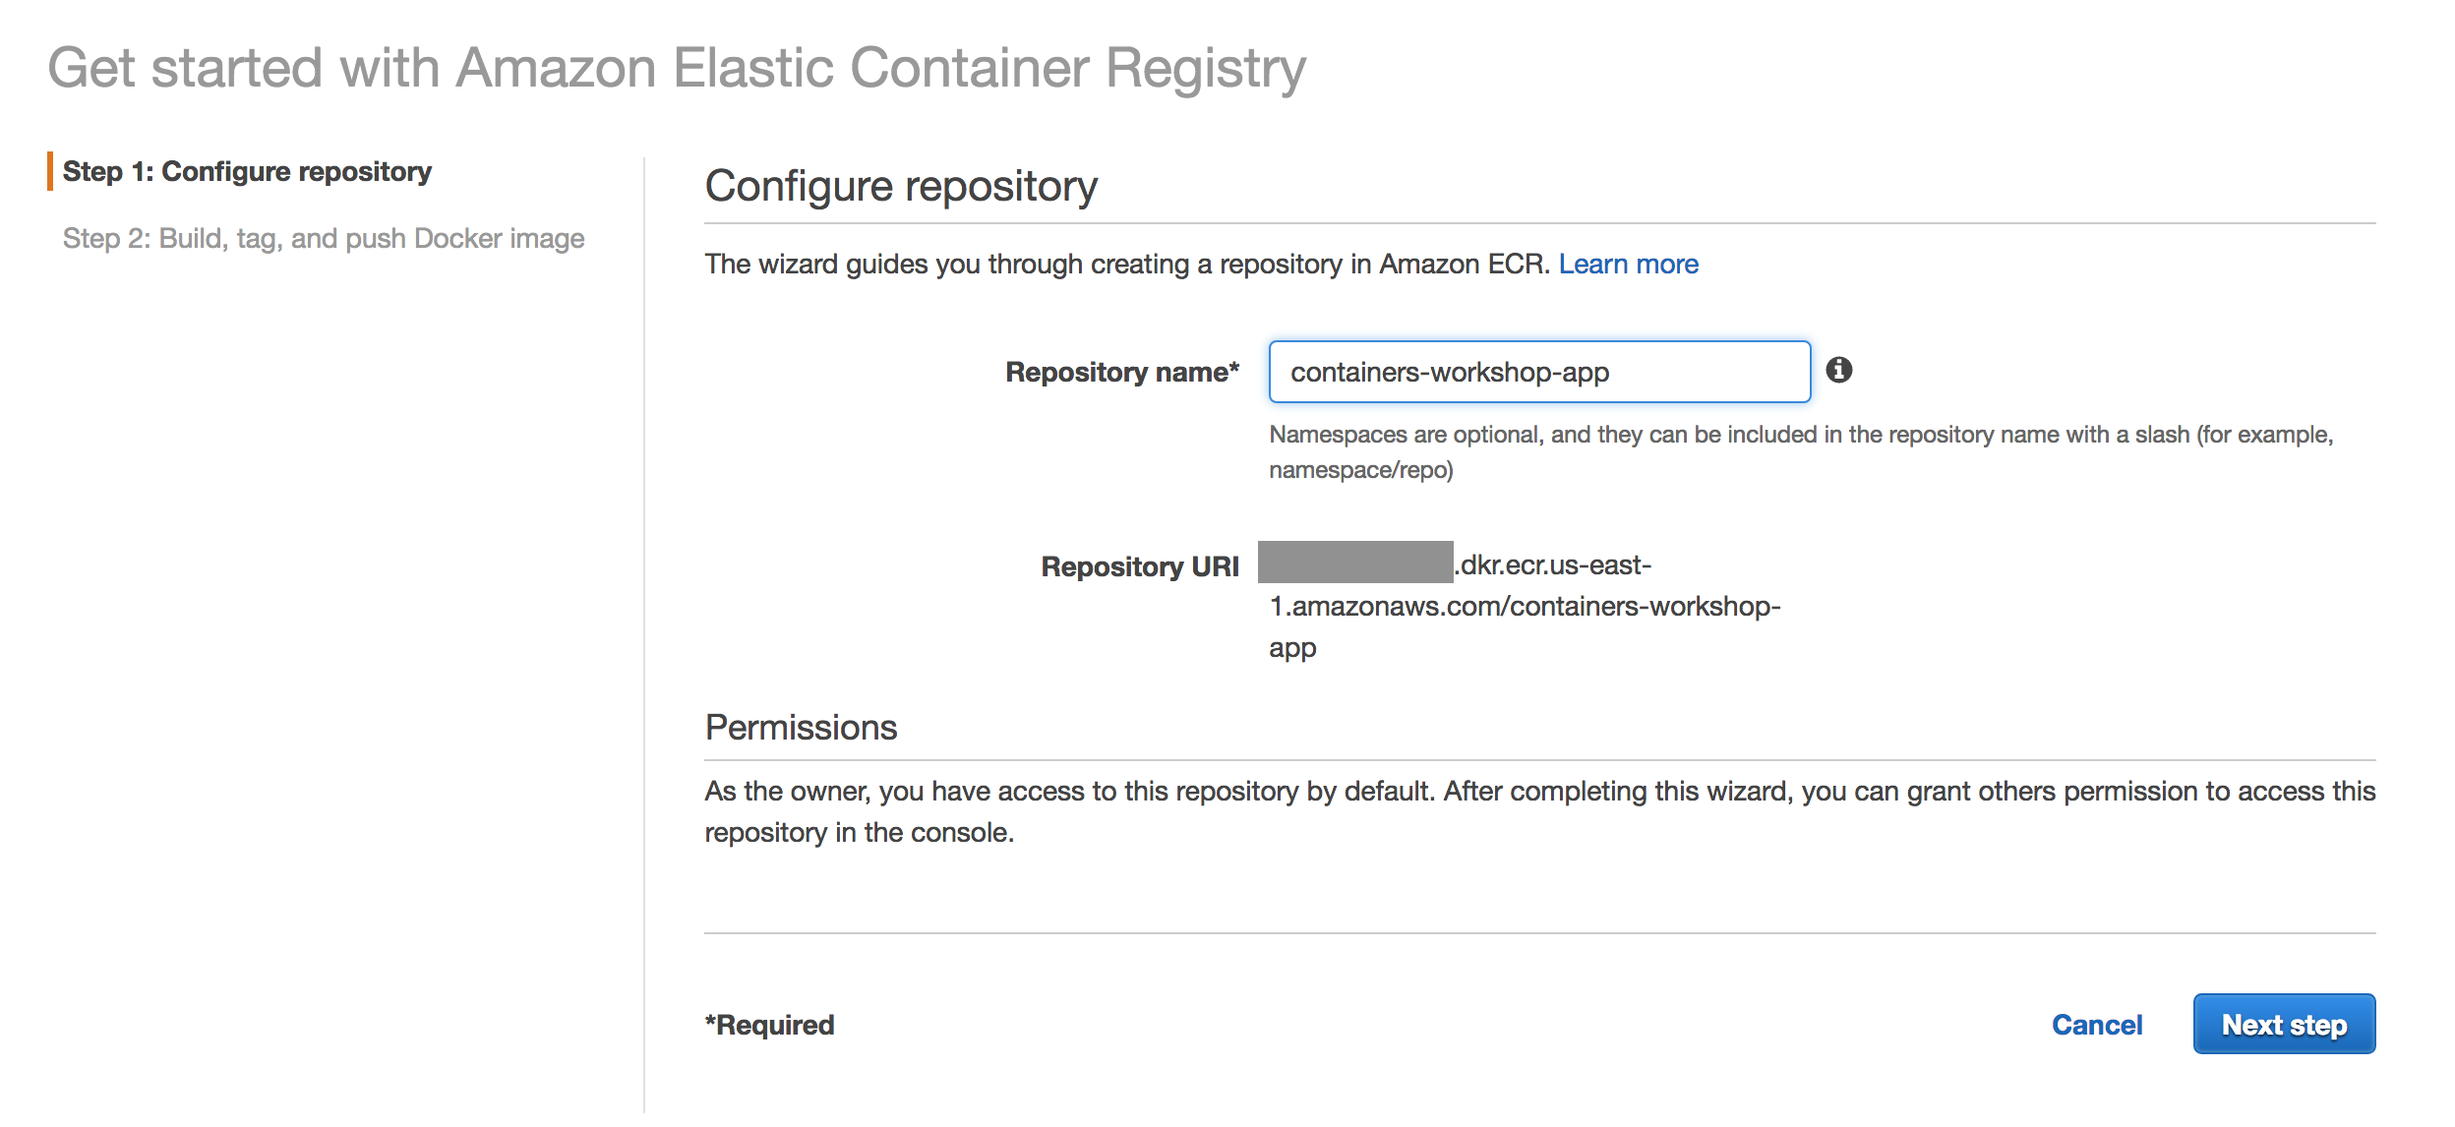
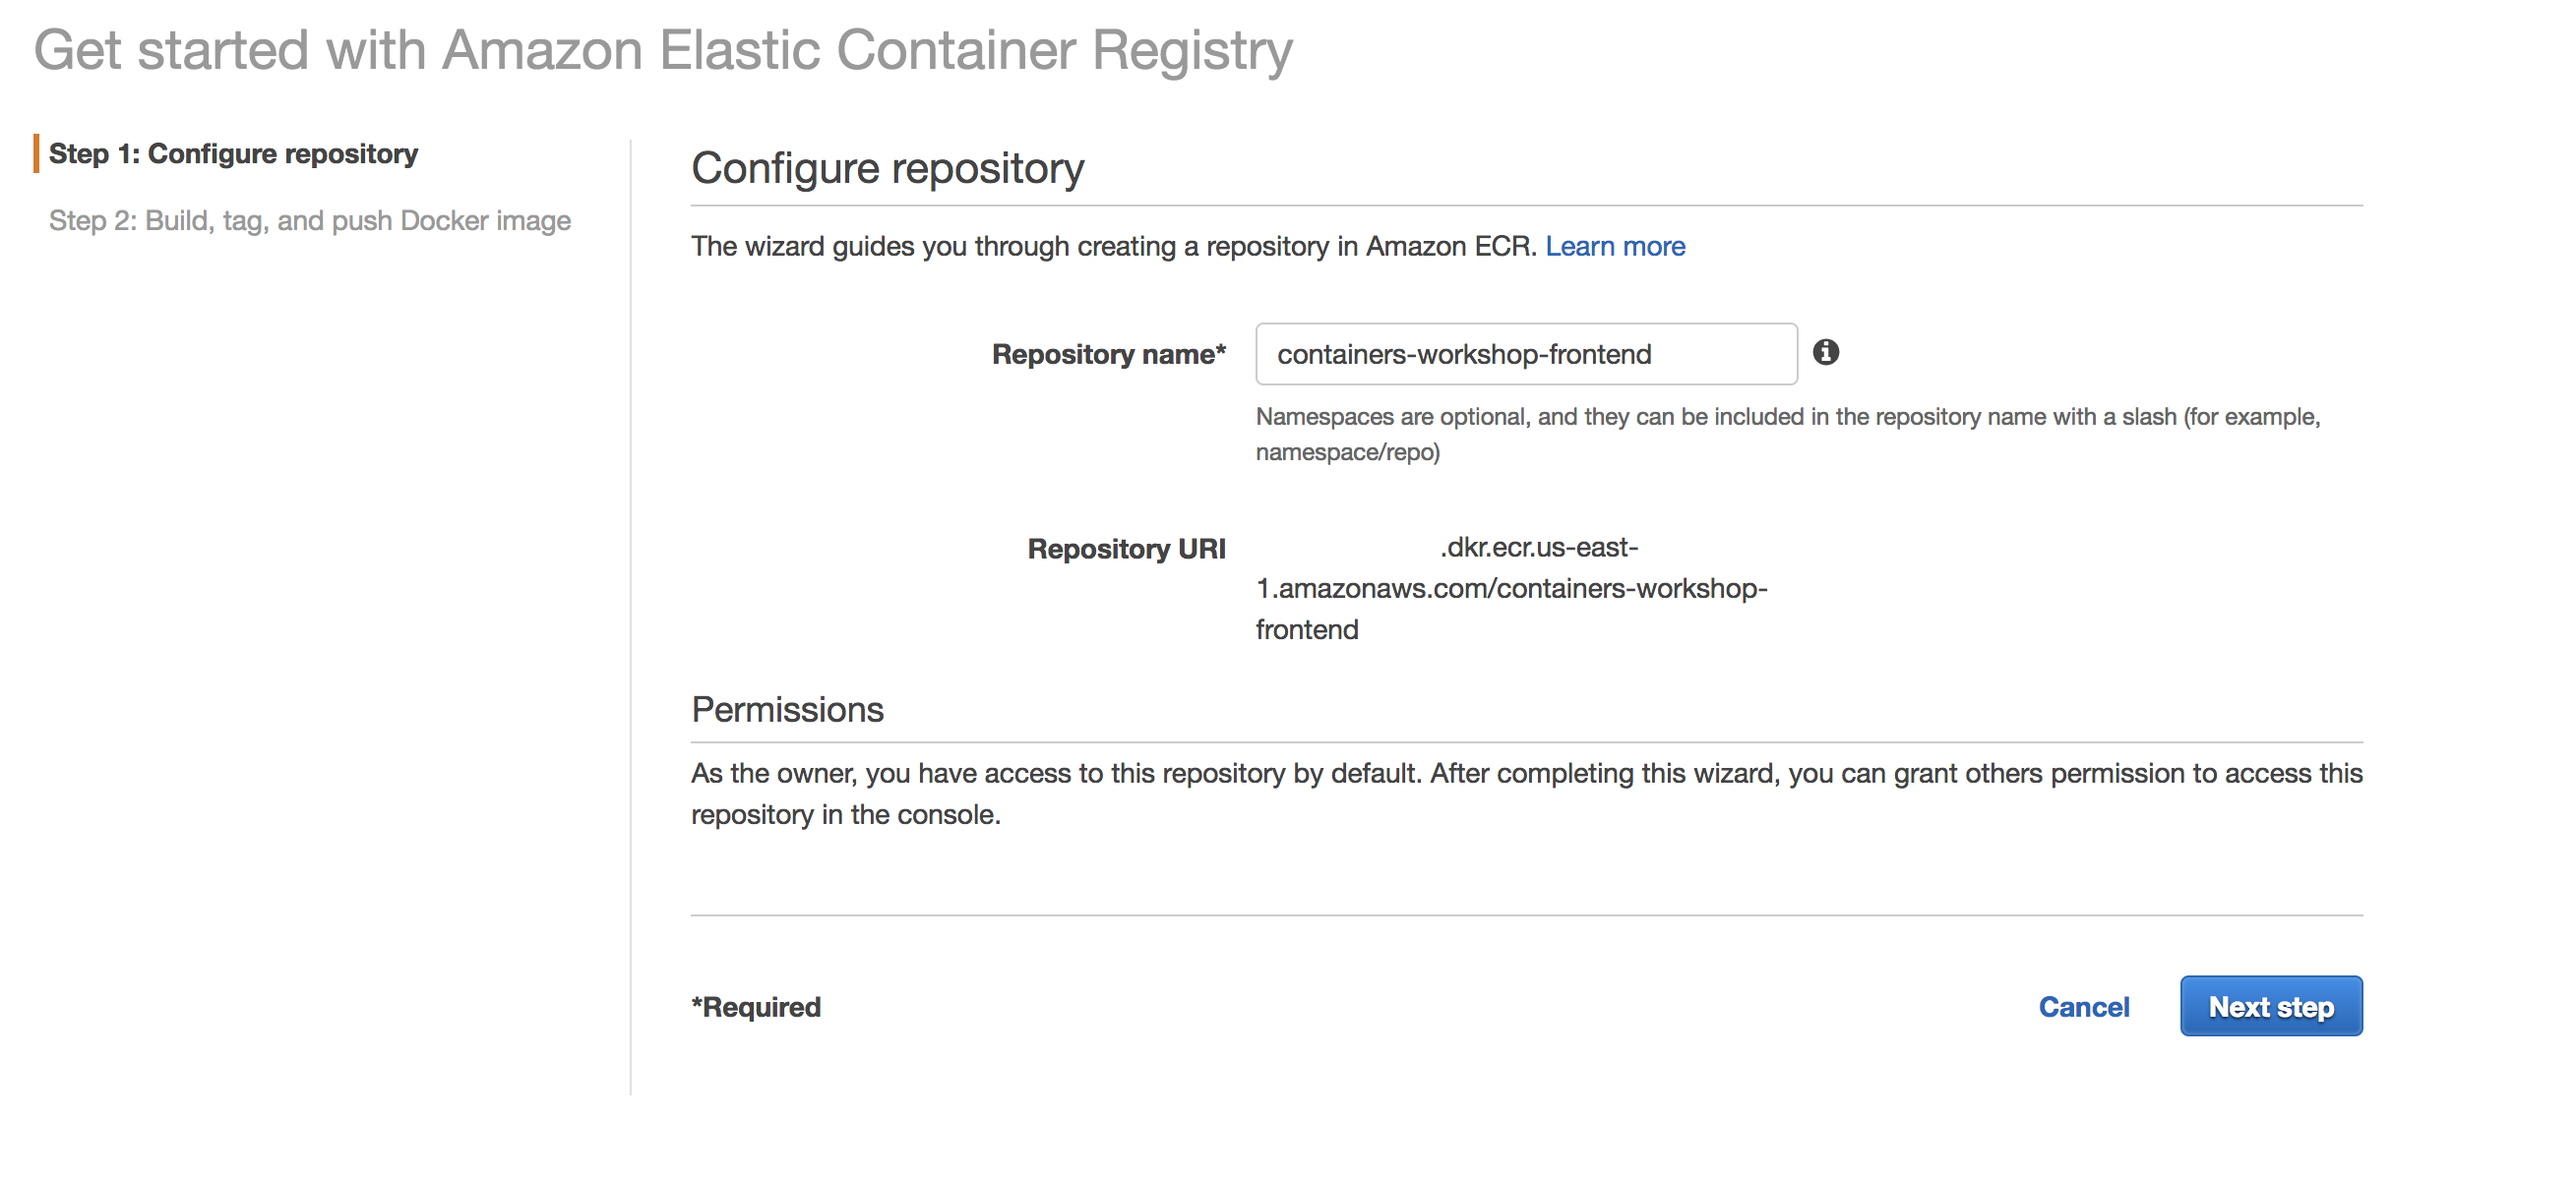
Changing content to new web application

diff --git a/02-CreatingDockerImage/README.md b/02-CreatingDockerImage/README.md
@@ -57,45 +57,49 @@ If you haven't executed the `git clone` command present in the [Setup Environmen
 
 Now we are going to build and test our containers locally.  If you've never worked with Docker before, there are a few basic commands that we'll use in this workshop, but you can find a more thorough list in the [Docker "Getting Started" documentation](https://docs.docker.com/engine/getstarted/).
 
-In this step, we are going to build a *Docker image* with a simple web application. The application that we will be using is available on the directory `00-Application` inside the project folder. In this case, lets's navigate to the `00-Application` directory:
+In this step, we are going to build a *Docker image* with the frontend application. The application that we will be using is available on the directory `00-Application/frontend` inside the project folder. In this case, lets's navigate to the `00-Application/frontend` directory:
 
-    $ cd containers-on-aws-workshop/00-Application/
+    $ cd containers-on-aws-workshop/00-Application/frontend
 
-Take a look on the contents of this directory. You will see that there is a directory called `app/` and also a file named `Dockerfile`. We will be using this `Dockerfile` to package our web application. In order to do that, run the following command inside the `00-Application` directory:
+Take a look on the contents of this directory. You will see that there is a directory called `code/` and also a file named `Dockerfile`. We will be using this `Dockerfile` to package our web application. In order to do that, run the following command inside the `frontend` directory:
 
-    $ docker build -t containers-workshop-app .
+    $ docker build -t containers-workshop-frontend .
 
 This should output steps that look something like this:
 
-    Sending build context to Docker daemon  9.295MB
-    Step 1/9 : FROM node:alpine
-     ---> 5ce79d7a9aad
-    Step 2/9 : COPY app/ /app
-     ---> 5db182714408
-    Step 3/9 : WORKDIR /app
-    Removing intermediate container 0fed50590e13
-     ---> 8b89b65c5c67
-    Step 4/9 : RUN npm install --global gulp && npm install gulp
-     ---> Running in f86ae7a1e8bb
+    Sending build context to Docker daemon  6.875MB
+    Step 1/12 : FROM node:11.1.0 as build-deps
+    ---> e893e87c6b5c
+    Step 2/12 : RUN mkdir /usr/src/app
+    ---> Running in 23713e0f15cc
+    Removing intermediate container 23713e0f15cc
+    ---> 920862581cb3
+    Step 3/12 : WORKDIR /usr/src/app
+    ---> Running in 25d3a7a96c09
+    Removing intermediate container 25d3a7a96c09
+    ---> 70b34d8d8b35
+    Step 4/12 : ENV PATH /usr/src/app/node_modules/.bin:$PATH
+    ---> Running in 6be3942d1d4a
 
 If the container builds successfully, the output should end with something like this:
 
-    Successfully built 0c50204fc662
-    Successfully tagged containers-workshop-app:latest
+  Successfully built 1612d3ffdb32
+  Successfully tagged containers-workshop-frontend:latest
 
-To run your container:
+>NOTE: For this build process, we are using the multi-stage build approach. This consists in using one container to generate you application and then copy the generated app to another image, in order to make it smaller. You can get more information about multi-stage builds in [this link](https://docs.docker.com/develop/develop-images/multistage-build/).
 
-     $  docker run -d -p 8080:80 containers-workshop-app
+Now that you created your docker image, you can use the following command to run the *containers-workshop-frontend* container:
 
-To check if your container is running:
+     $  docker run -d -p 8080:80 containers-workshop-frontend
+
+To check if your container is running, use the following command:
 
      $ docker ps
 
 This should return a list of all the currently running containers.  In this example,  it should just return a single container, the one that we just started:
 
-    CONTAINER ID        IMAGE                     COMMAND             CREATED                  STATUS              PORTS                          NAMES
-    1255ca3087f5        containers-workshop-app   "node server.js"    Less than a second ago   Up 1 second         0.0.0.0:80->8080/tcp, 8080/tcp   nifty_snyder
-
+    CONTAINER ID        IMAGE                          COMMAND                  CREATED             STATUS              PORTS                  NAMES
+    1c0511ee397d        containers-workshop-frontend   "nginx -g 'daemon of…"   13 seconds ago      Up 12 seconds       0.0.0.0:8080->80/tcp   musing_leakey
 
 
 To test the application, you can use the Cloud9 `Preview Running Application` feature. In Cloud9, click in `Preview` > `Preview Running Application`
@@ -201,7 +205,7 @@ Before we can build and push our images, we need somewhere to push them to.  In 
 
 To create a repository, navigate to the [ECS console](https://console.aws.amazon.com/ecs/home?region=us-east-1), and select **Repositories**.  From there, click in the **Get Started**.
 
-Name your first repository **containers-workshop-app**:
+Name your first repository **containers-workshop-frontend**:
 
 ![create ecr repository](/02-CreatingDockerImage/images/creating_repository.png)
 
@@ -229,14 +233,14 @@ To login to ECR, copy this output and execute it as a linux command. The output 
     Login Succeeded
 
 
->NOTE: If you are running it in a linux terminal, you can just run the command like this `aws ecr get-login --region us-east-1 --no-include-email` which will tell your shell to execute the output of the first command.  
+>NOTE: If you are running it in a linux terminal, you can just run the command like this `$(aws ecr get-login --no-include-email --region us-east-1)` which will tell your shell to execute the output of the first command.  
 
 If you are unable to login to ECR, check your IAM user group permissions.
 
 Now, let's tag our image locally and them push our image to the ECR repository. Use the following commands:
 
-    $ docker tag containers-workshop-app:latest XXXXXXXXX.dkr.ecr.us-east-1.amazonaws.com/containers-workshop-app:latest
-    $ docker push XXXXXXXXX.dkr.ecr.us-east-1.amazonaws.com/containers-workshop-app:latest
+    $ docker tag containers-workshop-frontend:latest XXXXXXXXX.dkr.ecr.us-east-1.amazonaws.com/containers-workshop-frontend:latest
+    $ docker push XXXXXXXXX.dkr.ecr.us-east-1.amazonaws.com/containers-workshop-frontend:latest
 
 >NOTE: Remember to replace the `XXXXXXXXX` with your account ID. This information will be presented to you in the ECR screen with the Docker push commands.
 
@@ -245,7 +249,7 @@ Now, let's tag our image locally and them push our image to the ECR repository. 
 
 This step will take some minutes. When the command finishes, you should see something like this:
 
-    The push refers to a repository [XXXXXXXXX.dkr.ecr.us-east-1.amazonaws.com/containers-workshop-app]
+    The push refers to a repository [XXXXXXXXX.dkr.ecr.us-east-1.amazonaws.com/containers-workshop-frontend]
     9ef5219507db: Pushed
     b3d18e8f520f: Pushed
     a83b4d2ff3a0: Pushed
@@ -254,17 +258,17 @@ This step will take some minutes. When the command finishes, you should see some
     b3968bc26fbd: Pushed
     aa4e47c45116: Pushed
     788ce2310e2f: Pushed
-    latest: digest: sha256:38588bb240b57d123522ab3d23cec642907a99f1379445fbea27dafc58608 size: 1988
+    latest: digest: sha256:38588bb240b57d123522ab3d23cec642907a99f1379445fbea27dafc58608 size: 1364
 
 
 You can see your pushed images by viewing the repository in the AWS Console.  Alternatively, you can use the CLI:
 
-    $ aws ecr list-images --repository-name=containers-workshop-app --region us-east-1
+    $ aws ecr list-images --repository-name=containers-workshop-frontend
     {
         "imageIds": [
             {
                 "imageTag": "latest",
-                "imageDigest": "sha256:38588bb240b57d123522ab3d23107cec6438d7a99f1379445fbea27dafc58608"
+                "imageDigest": "sha256:858b195919d9fd98dbf9ac9a4e80d4f3452ff4499ac2a1927f903f"
             }
         ]
     }

diff --git a/README.md b/README.md
@@ -8,7 +8,11 @@ Hello and welcome to the Containers On AWS Workshop! Please, read the instructio
 
 We will walk you through the very basics of containers: from installing and configuring Docker, running containers locally, deploying them on AWS container services like Elastic Container Services (ECS), till implementing a Continuous Delivery pipeline for your container and help you configure Auto Scaling for your containerized app.
 
-## 2. If you are using a Windows machine
+## 2. The Application
+
+During this workshop, we will deploy an application that allows users to vote on the most difficult question ever: *Chicken or Pasta?*. This application is composed by two different microservices, a frontend which will be accessible through a web browser and an API that will receive the votes and update a DynamoDB table with the data. You can get more information about the application architecture and components by navigating to the [application directory](/00-Application).
+
+## 3. If you are using a Windows machine
 
 We strongly recommend you spinning up a Cloud9 environment. Optionally, you can spin up an EC2 instance with Amazon Linux.
 
@@ -19,7 +23,7 @@ If you want to run on a EC2 instance, the following links will guide you through
 * [Creating a Linux EC2 instance](https://docs.aws.amazon.com/AWSEC2/latest/UserGuide/EC2_GetStarted.html)
 * [Accessing a Linux EC2 instance from a Windows machine](https://docs.aws.amazon.com/AWSEC2/latest/UserGuide/putty.html)
 
-## 3. We strongly recommend you running this workshop in the following order:
+## 4. We strongly recommend you running this workshop in the following order:
 
 * [1. Environment Setup](/01-EnvironmentSetup)
 * [2. Creating Your Docker Image](/02-CreatingDockerImage)
@@ -28,7 +32,7 @@ If you want to run on a EC2 instance, the following links will guide you through
 * [5. Creating a Continuous Delivery Pipeline with Code services and Amazon ECS](/05-ContinuousDelivery)
 * [6. Configuring Service Auto Scaling on Amazon ECS](/06-AutoScaling)
 
-## 4. Enough of jibber jabber...
+## 5. Enough of jibber jabber...
 
 You can start the Containers on AWS workshop by clicking in the following link:
 
